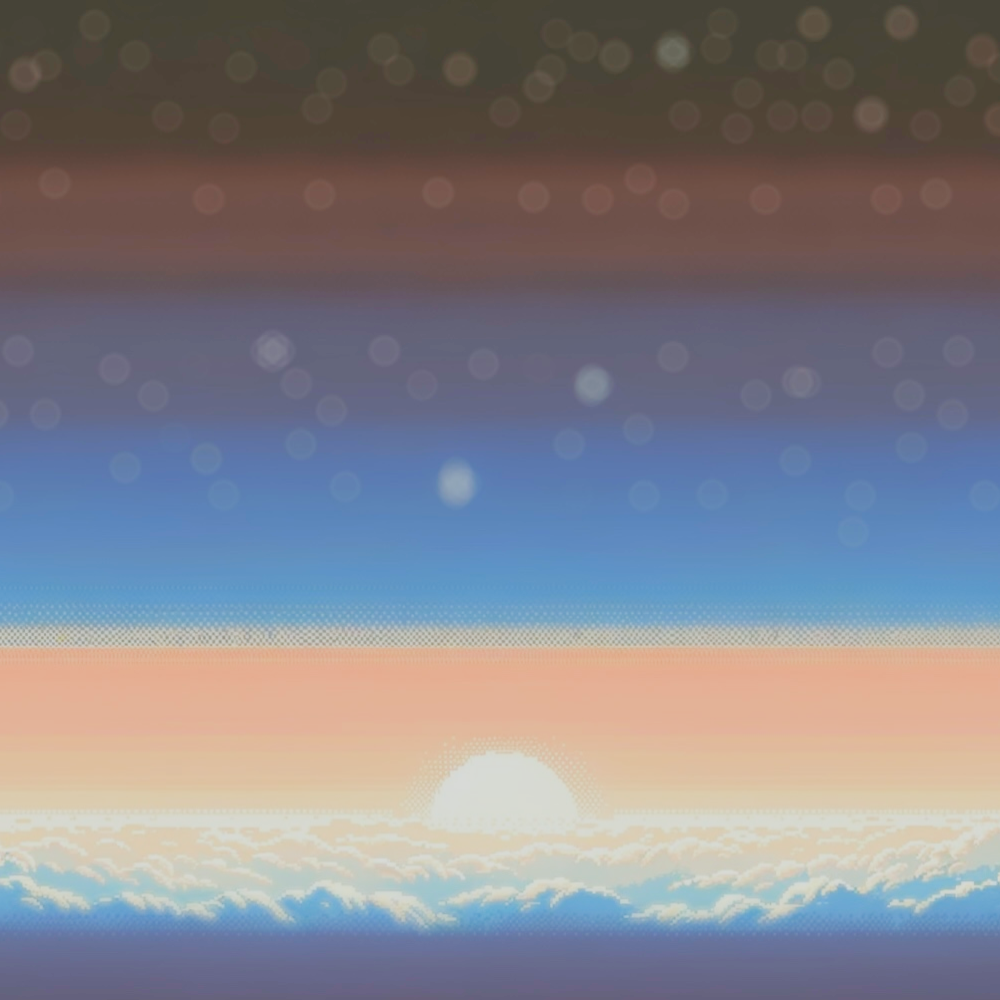
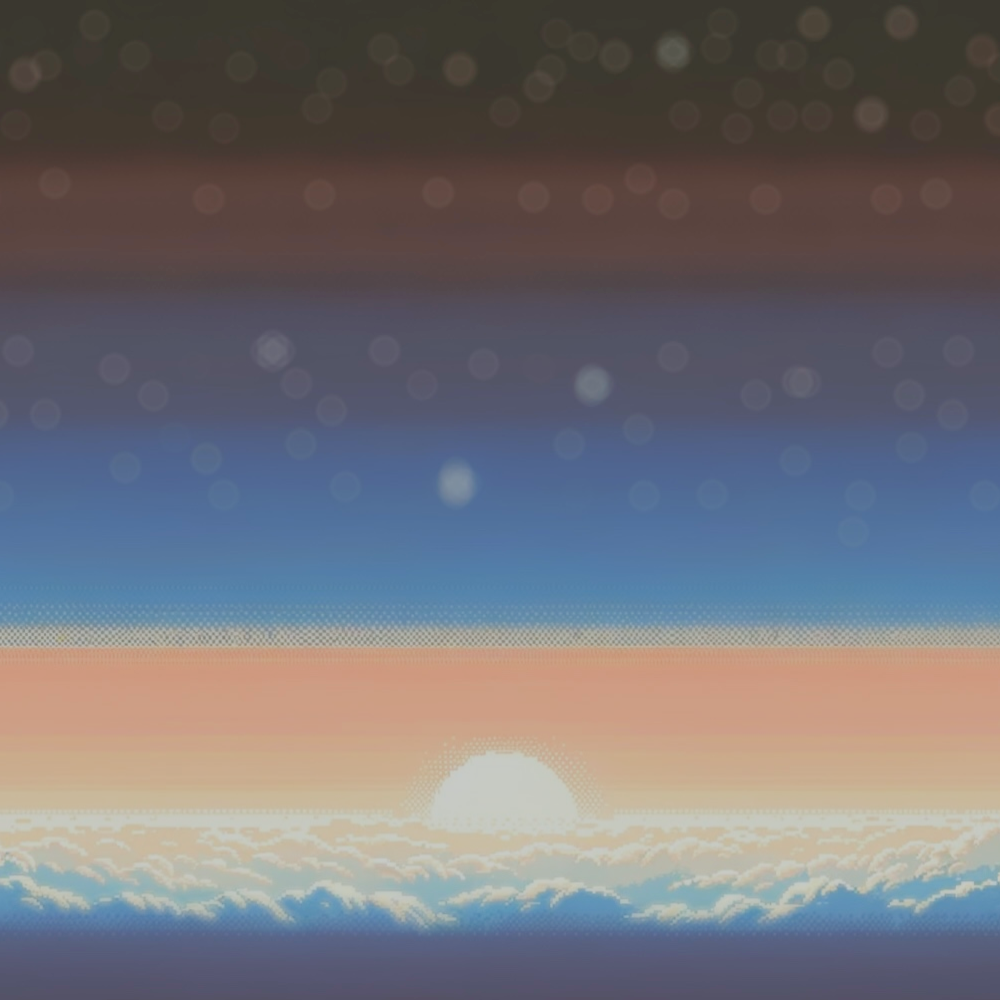
1

Changed region(s): [[0.0, 0.372, 1.0, 0.651], [0.0, 0.868, 1.0, 0.992]]

diff --git a/Systems/HierarchySystem.cs b/Systems/HierarchySystem.cs
@@ -38,11 +38,15 @@ public class HierarchySystem : IInitializeSystem {
 			{ "MainTex", ( "bg.jpg", default ) }
 		} );
 
+		var postProcess = _contexts.game.CreateEntity();
+		postProcess.AddppLightSetting( true );
+		postProcess.AddppBloom( true, new[]{ 1 }, 4, 2, 0.93f, 0.2f, new BloomComputer() );
+		postProcess.AddppGaussianBlur( true, new[]{ 0 }, 10, 5,  new GaussianBlurComputer() );
 
 		var light1 = _contexts.game.CreateEntity();
 		light1.AddComponentPosition( 0f, 0f, 0 );
 		light1.AddLightGlobalLight( true, new[]{ 1 }, 0, new Vector3( 0.2f, 0.2f, 0.4f ), 0.1f, 1f );
-		
+
 		var light2 = _contexts.game.CreateEntity();
 		light2.AddComponentPosition( 0f, 0f, 0 );
 		light2.AddLightGlobalLight( true, new[]{ 1 }, 0, new Vector3( 0.8f, 0.7f, 0.5f ) * 1.5f, 0.4f, 1f );
@@ -113,7 +117,7 @@ public class HierarchySystem : IInitializeSystem {
 		quad4.AddComponentRotation( 0 );
 		quad4.AddMatRenderSingle( true, 2, null );
 		quad4.isComponentCellAutoTexture = true;
-		quad4.AddLightShadowLight( true, new[]{ 1 }, 0, 10f, 1f, 0.8f, new Vector3( 246/255f, 149/255f, 96/255f ), 1f, 0f );
+		quad4.AddLightShadowLight( true, new[]{ 1 }, 0, 10f, 1f, 0.8f, new Vector3( 246 / 255f, 149 / 255f, 96 / 255f ), 1f, 1f );
 
 
 		/*

diff --git a/Global/GameSetting.cs b/Global/GameSetting.cs
@@ -9,8 +9,8 @@ public static class GameSetting {
 
 	// light setting
 	public const int LightQuality =0;//best:0,good:1,low:2
-	public const int LightBlurIterations =1;
-	public const int LightBlurOffset = 0;
+	public const int LightBlurIterations =0;
+	public const int LightBlurOffset = 1;
 	public const int LightAngularPrecision = 360;
 	public const int LightRadiusPrecision = 100;
 	

diff --git a/Systems/Spawner/CellAuto/CellAutomationSystem.cs b/Systems/Spawner/CellAuto/CellAutomationSystem.cs
@@ -51,7 +51,7 @@ public class CellAutomationSystem : IInitializeSystem, IExecuteSystem {
 
 		_cellColorsList = new List<byte[]>{
 			_cellColors, _cellColorsFire, _cellColorsWater, _cellColorsSand, _cellColorsOli, _cellColorsAcid,
-			_cellColorsLava, _cellColorsStone, _cellColorsSmoke,_cellColorsSteam
+			_cellColorsLava, _cellColorsStone,_cellColorsSteam, _cellColorsSmoke,
 		};
 
 
